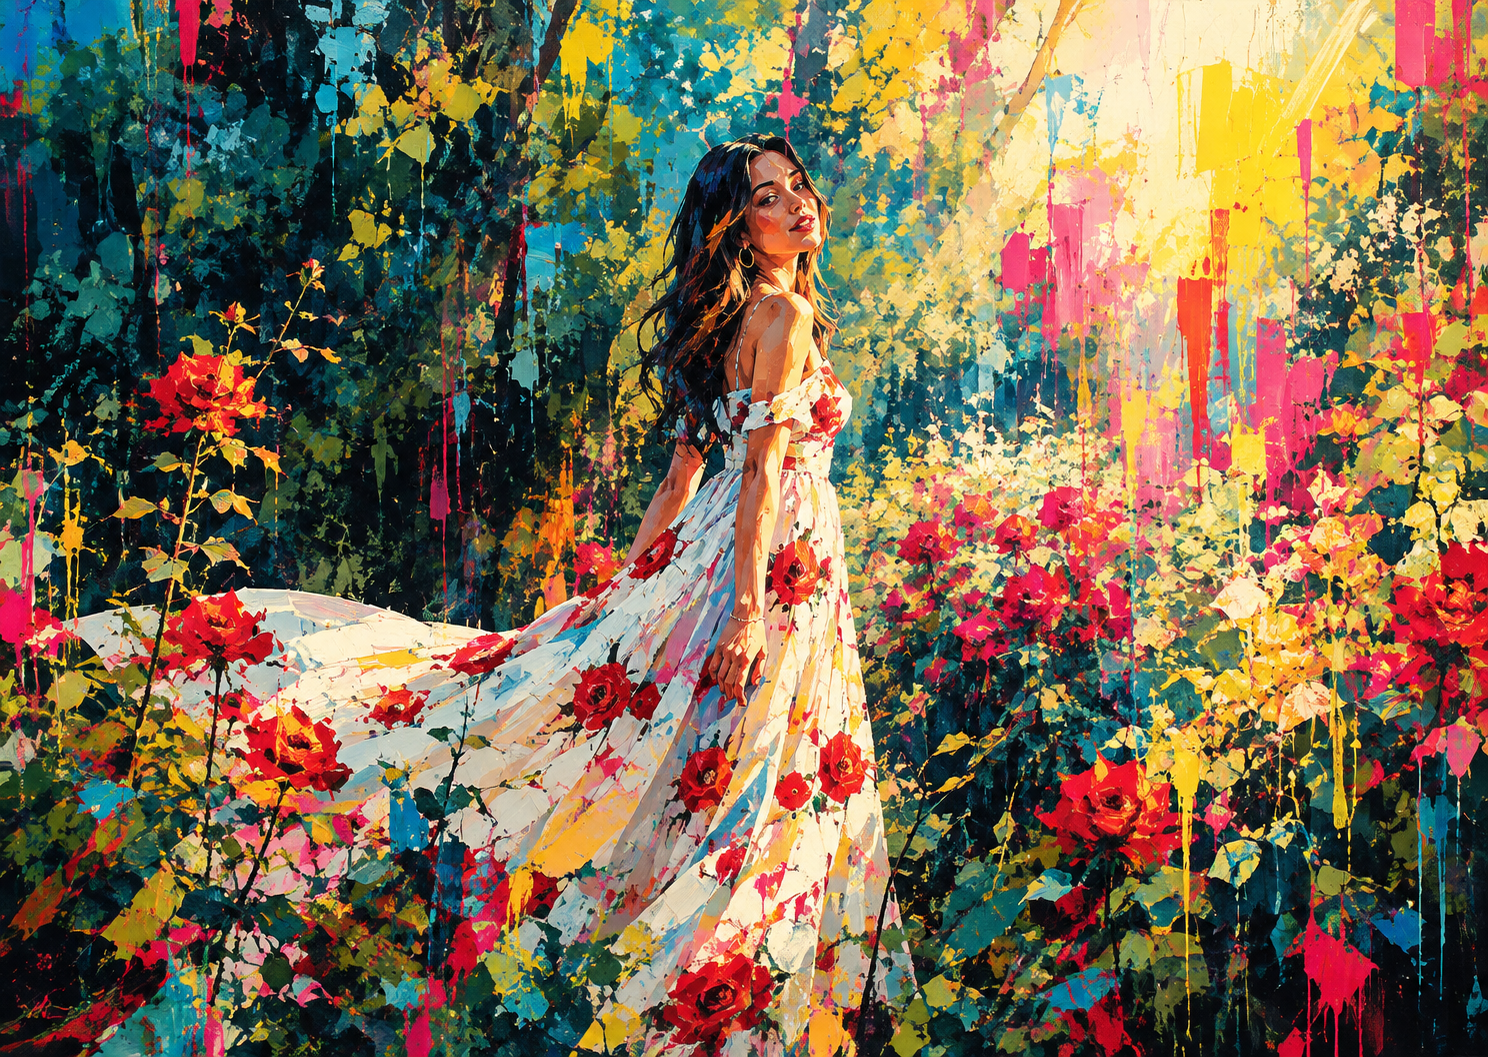
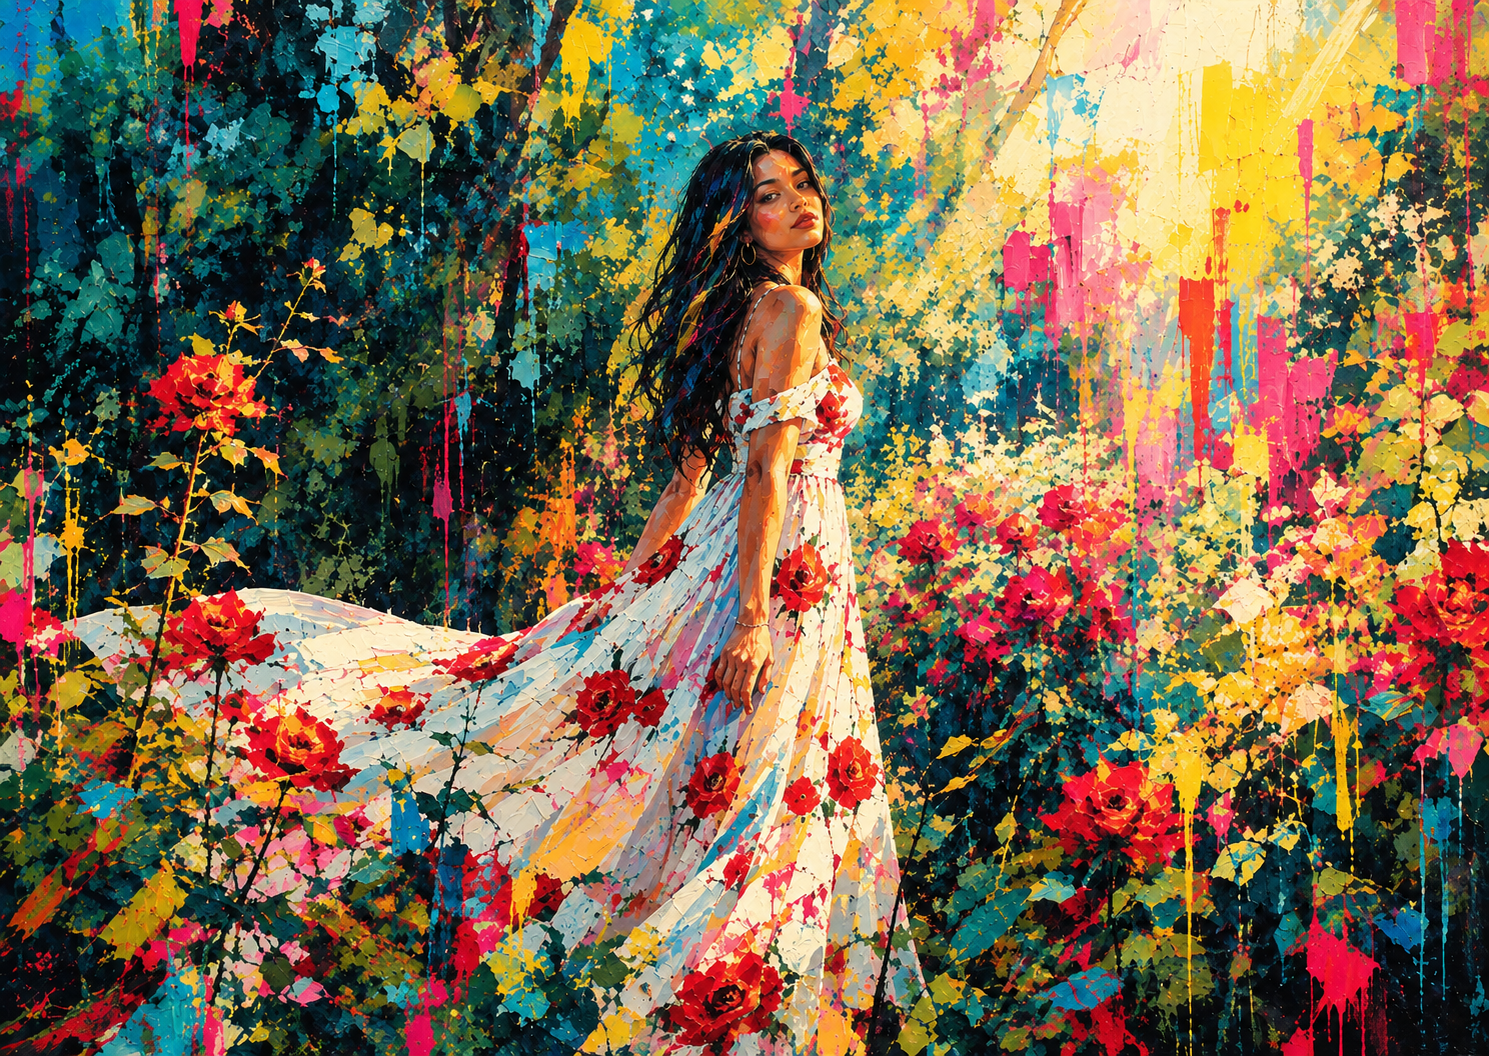
Commit Amistad y Duda

diff --git a/index.js b/index.js
@@ -4,8 +4,8 @@ const CONTENT = {
   inicioTitulo: 'Para Nani',
   inicioFrase: 'Hay historias que merecen ser recordadas con cariño.',
   inicioBoton: 'Comenzar',
-  amistadTitulo: 'Amistad',   amistadTexto: 'EDITAR: texto personal de Amistad',
-  dudaTitulo: 'Duda',         dudaTexto: 'EDITAR: texto personal de Duda',
+  amistadTitulo: 'Amistad',   amistadTexto: 'La RAE define la amistad como un afecto personal y desinteresado hacia otra persona. Pero una definición no alcanza para explicar lo que significa una amistad de verdad.\n\nAmistad también es apoyarse, como cuando me diste una mano para dirigir el grupo, aunque no te dieran el crédito que merecías. Son las risas, las bromas y todos esos buenos recuerdos que compartimos durante años. Es que bastara con verte y saludarte para que mi día mejorara un poquito.\n\nPero, si soy sincero, para mí nunca fue solamente amistad.\n\nSiempre hubo algo en ti que llamaba mi atención: esos ojos hermosos que todavía recuerdo con anhelo, tu pelo ondulado y esa sonrisa tan sincera. Supe que empezabas a significar algo más cuando me ponía nervioso cerca de ti, cuando evitaba mencionarte para disimular lo que realmente sentía.\n\nY ese sentimiento se intensificó.\n\nSe intensificó cuando Erick nos dejó solos en un cuarto. Cuando teníamos conversaciones en las que parecíamos olvidarnos del resto y la conexión entre nosotros se sentía genuina. Cuando hacíamos equipo en los deportes. Y cuando Palacios nos puso a bailar y sentí el corazón acelerarse sin saber muy bien qué hacer con todo aquello que llevaba dentro.\n\nAun así, nunca me atreví a decirte nada. Me guardé lo que sentía y dejé que nuestra historia siguiera siendo una amistad. Una amistad con una mujer a la que admiraba, que me hacía bien y que, sin saberlo, ya empezaba a ocupar un lugar diferente en mi vida.',
+  dudaTitulo: 'Duda',         dudaTexto: 'Un año después, nuestros caminos volvieron a cruzarse. Esta vez, en los pasillos de una universidad. Y aunque había pasado el tiempo, seguíamos siendo capaces de encontrarnos entre conversaciones, risas y esos planes de salir algún día que siempre terminaban quedándose en palabras.\n\nLa verdad es que nada había cambiado demasiado entre nosotros. Creo que el que había cambiado era yo, o al menos estaba aprendiendo a serlo. Porque esta vez decidí dejar de tener miedo e intentarlo.\n\nAsí que un día hice realidad aquella idea de salir juntos y te invité a comer algo. Y, mientras llegaba el día, empezamos a hablarnos más. Nos compartíamos memes, nos contábamos cómo había estado nuestro día y, poco a poco, nuestras conversaciones fueron tomando más confianza, hasta llegar a tener una complicidad que no recordaba haber tenido contigo antes.\n\nLo curioso es que yo llegué a esa primera cita lleno de dudas. Al principio, ni siquiera tenía intenciones de que pasara algo entre nosotros. Creía que aquellos sentimientos que había tenido en el colegio ya habían desaparecido. Pero bastó una semana hablando contigo para darme cuenta de que quizás nunca se habían ido del todo.\n\nY entonces llegó aquella salida.\n\nFuimos a comer a un restaurante italiano. Tú pediste una carbonara y yo una Alfredo. Hablamos durante horas, tomamos un poco y, cuando llegó el momento de llevarte a tu casa, me despedí de ti con una sensación que no me abandonó en todo el camino de vuelta: me había quedado con las ganas de besarte.\n\nNuestra segunda salida fue diferente. Recuerdo que te habías pintado las uñas el día anterior y que, en algún momento, terminé tomándote de la mano. Cuando llegamos a tu casa, volví a despedirme de ti como si aquella fuera una salida cualquiera. Pero, antes de que te bajaras del carro, algo en mí pudo más que todas las dudas que llevaba encima. Te tomé suavemente de la mandíbula y te besé.\n\nY creo que, por primera vez, dejé de preguntarme qué habría pasado si lo hubiera intentado antes.\n\nPara nuestra tercera salida fuimos a un parque. No hubo restaurante, ni una cena especial, ni siquiera un plan que necesitara dinero. Éramos tú, yo y una conversación que se extendió durante horas. Y fue ahí donde empecé a entender que no necesitaba grandes planes para disfrutar de tu compañía. Bastaba con tenerte enfrente y poder seguir hablando contigo.\n\nPero las dudas no desaparecieron con aquel beso ni con aquella conversación.\n\nPorque, para entonces, ya había empezado a darme cuenta de lo que sentía por ti, y eso me asustaba. Me di cuenta de que te amaba sin haber amado antes, de que estaba entrando en una etapa de mi vida que no conocía y para la que no sabía si estaba preparado.\n\nTenía miedo de no ser suficiente, de ser rechazado, de lo que pudieran pensar los demás. Miedo de elegir mal, de empezar algo para lo que todavía no me sentía listo, de ir demasiado rápido y, al mismo tiempo, de sentir demasiado. Tenía tantas dudas que, a veces, no sabía qué hacer con todo lo que estaba sintiendo.\n\nPero había algo que empezaba a tener claro: no quería que el miedo volviera a decidir por mí.\n\nDurante aquel año en que nuestros caminos estuvieron separados, aprendí que la vida a veces nos da segundas oportunidades. Y yo no quería desperdiciar la mía.\n\nNo sabía cómo se suponía que debía amar, ni tenía experiencia para asegurar que todo saldría bien. No tenía respuestas para todas mis dudas ni garantías de que estaba tomando la decisión correcta.\n\nPero tenía ganas de intentarlo contigo.\n\nY, para alguien que durante tanto tiempo prefirió guardar lo que sentía antes que arriesgarse a perderlo, eso ya significaba mucho.',
   popTitulo: 'Enamoramiento', popTexto: 'EDITAR: texto personal de Enamoramiento',
   nostalgiaTitulo: 'Nostalgia', nostalgiaTexto: 'EDITAR: texto personal de Nostalgia',
   cumpleTitulo: 'Feliz cumpleaños', cumpleTexto: 'EDITAR: mensaje personal de cumpleaños (deseos de felicidad, tranquilidad y oportunidades)',
@@ -37,8 +37,11 @@ const $ = (s, r = document) => r.querySelector(s);
 const reduce = matchMedia('(prefers-reduced-motion: reduce)').matches;
 
 /* Contenido */
-document.querySelectorAll('[data-t]').forEach(el => el.textContent = CONTENT[el.dataset.t] ?? '');
-$('.acrostico').innerHTML = ACROSTICO.map(([l, p]) => `<li><b aria-hidden="true">${l}</b><span>${p}</span></li>`).join('');
+document.querySelectorAll('[data-t]').forEach(el => {
+  const partes = (CONTENT[el.dataset.t] ?? '').split('\n\n');   // un párrafo real por cada \n\n
+  el.textContent = partes[0];
+  if (el.closest('.texto')) el.after(...partes.slice(1).map(x => Object.assign(document.createElement('p'), { textContent: x })));
+});$('.acrostico').innerHTML = ACROSTICO.map(([l, p]) => `<li><b aria-hidden="true">${l}</b><span>${p}</span></li>`).join('');
 
 /* Reproductor: sugiere y reproduce SOLO tras un toque de la persona (Escuchar, Lista o Continuar) */
 const Player = (() => {
@@ -69,11 +72,28 @@ const Player = (() => {
     document.head.append(s); setTimeout(no, 5000);
   });
   const plano = c => {
+    console.log('[musica] usando reproductor simple (sin control por código)');
     plain = true; embed.innerHTML = '';
     const f = document.createElement('iframe'); f.title = 'Reproductor de Spotify'; f.allow = 'autoplay; encrypted-media';
     f.src = `https://open.spotify.com/embed/track/${c.id}`; embed.append(f);
   };
   const tocar = () => { if (quiere && ctrl) { quiere = false; ctrl.play(); } };
+  // Repite la canción (o el fragmento de 30 s) cuando termina sola. Una pausa manual no la reinicia.
+  const activaBucle = C => {
+    let sonaba = false, ult = 0, ultEvento = 0;
+    const repite = () => { sonaba = false; console.log('[musica] repitiendo'); C.seek(0); C.play(); };
+    C.addListener('playback_update', e => {
+      const d = e.data || {};
+      console.log('[musica]', 'pausa:', d.isPaused, 'pos:', d.position, 'dur:', d.duration);   // diagnóstico
+      ultEvento = Date.now();
+      if (!d.isPaused) { sonaba = true; ult = d.position; return; }
+      const termino = sonaba && (d.position <= 1000 || (d.duration && ult >= d.duration - 1500));
+      sonaba = false;
+      if (termino) repite();
+    });
+    // Si la reproducción se corta sin avisar (dejan de llegar eventos mientras sonaba), también repite
+    setInterval(() => { if (sonaba && Date.now() - ultEvento > 3000) repite(); }, 1000);
+  };
   const suena = () => {
     const c = cur(), uri = `spotify:track:${c.id}`; quiere = true;
     if (plain) return plano(c);
@@ -81,7 +101,10 @@ const Player = (() => {
     cargaApi().then(API => {
       if (plain || ctrl) return;
       const host = document.createElement('div'); embed.innerHTML = ''; embed.append(host);
-      API.createController(host, { uri, width: '100%', height: 80 }, C => { ctrl = C; C.addListener('ready', tocar); });
+      API.createController(host, { uri, width: '100%', height: 80 }, C => {
+        ctrl = C; C.addListener('ready', tocar);
+        activaBucle(C);
+      });
       setTimeout(() => { if (!ctrl) plano(cur()); }, 5000);
     }).catch(() => plano(cur()));
   };

diff --git a/pixel.css b/pixel.css
@@ -16,3 +16,18 @@
   0%{box-shadow:calc(var(--p)*13) calc(var(--p)*3) #e0a070,calc(var(--p)*14) calc(var(--p)*3) #e0a070,calc(var(--p)*15) calc(var(--p)*3) #e0a070,calc(var(--p)*13) calc(var(--p)*4) #e0a070,calc(var(--p)*14) calc(var(--p)*4) #e0a070,calc(var(--p)*15) calc(var(--p)*4) #e0a070,calc(var(--p)*13) calc(var(--p)*5) #e0a070,calc(var(--p)*14) calc(var(--p)*5) #e0a070,calc(var(--p)*15) calc(var(--p)*5) #e0a070,calc(var(--p)*13) calc(var(--p)*6) #e0a070,calc(var(--p)*14) calc(var(--p)*6) #e0a070,calc(var(--p)*13) calc(var(--p)*7) #e0a070,calc(var(--p)*14) calc(var(--p)*7) #e0a070,calc(var(--p)*13) calc(var(--p)*8) #e0a070,calc(var(--p)*14) calc(var(--p)*8) #e0a070,calc(var(--p)*13) calc(var(--p)*9) #e0a070,calc(var(--p)*14) calc(var(--p)*9) #e0a070,calc(var(--p)*13) calc(var(--p)*10) #e0a070,calc(var(--p)*14) calc(var(--p)*10) #e0a070,calc(var(--p)*12) calc(var(--p)*11) #2b2b3a,calc(var(--p)*13) calc(var(--p)*11) #2b2b3a,calc(var(--p)*14) calc(var(--p)*11) #2b2b3a,calc(var(--p)*12) calc(var(--p)*12) #2b2b3a,calc(var(--p)*13) calc(var(--p)*12) #2b2b3a,calc(var(--p)*14) calc(var(--p)*12) #2b2b3a}
   50%{box-shadow:calc(var(--p)*13) calc(var(--p)*2) #e0a070,calc(var(--p)*14) calc(var(--p)*2) #e0a070,calc(var(--p)*15) calc(var(--p)*2) #e0a070,calc(var(--p)*13) calc(var(--p)*3) #e0a070,calc(var(--p)*14) calc(var(--p)*3) #e0a070,calc(var(--p)*15) calc(var(--p)*3) #e0a070,calc(var(--p)*13) calc(var(--p)*4) #e0a070,calc(var(--p)*14) calc(var(--p)*4) #e0a070,calc(var(--p)*15) calc(var(--p)*4) #e0a070,calc(var(--p)*14) calc(var(--p)*5) #e0a070,calc(var(--p)*15) calc(var(--p)*5) #e0a070,calc(var(--p)*14) calc(var(--p)*6) #e0a070,calc(var(--p)*15) calc(var(--p)*6) #e0a070,calc(var(--p)*14) calc(var(--p)*7) #e0a070,calc(var(--p)*15) calc(var(--p)*7) #e0a070,calc(var(--p)*14) calc(var(--p)*8) #e0a070,calc(var(--p)*15) calc(var(--p)*8) #e0a070,calc(var(--p)*14) calc(var(--p)*9) #e0a070,calc(var(--p)*15) calc(var(--p)*9) #e0a070,calc(var(--p)*14) calc(var(--p)*10) #e0a070,calc(var(--p)*15) calc(var(--p)*10) #e0a070,calc(var(--p)*12) calc(var(--p)*11) #2b2b3a,calc(var(--p)*13) calc(var(--p)*11) #2b2b3a,calc(var(--p)*14) calc(var(--p)*11) #2b2b3a,calc(var(--p)*12) calc(var(--p)*12) #2b2b3a,calc(var(--p)*13) calc(var(--p)*12) #2b2b3a,calc(var(--p)*14) calc(var(--p)*12) #2b2b3a}}
 @media (prefers-reduced-motion:reduce){.peek,.sprite::after{animation:none}.peek{transform:translateX(-18%)}}
+
+/* Duda: ciudad nocturna en pixel art (más luces cerca de ella, a la izquierda) */
+.s-duda{--s:12rem;--c:clamp(14rem,30vw,28rem);image-rendering:pixelated;
+  background:url("img/estrellas-pixel.png") 0 0/512px 512px,url("img/estrellas-pixel-2.png") 0 0/640px 640px,#0a1038}
+/* la ciudad va en una capa propia, sobre el suelo */
+.s-duda::before{content:"";position:absolute;left:0;right:0;bottom:var(--s);height:var(--c);background:url("img/ciudad-pixel.png") left bottom/100% auto no-repeat;
+  -webkit-mask-image:linear-gradient(transparent,#000 35%);mask-image:linear-gradient(transparent,#000 35%)}
+/* la luna, arriba a la izquierda; el texto siempre empieza debajo de ella */
+.s-duda::after{content:"";position:absolute;right:auto;top:1.2rem;left:6%;width:8rem;height:8rem;background:url("img/luna-pixel.png") center/contain no-repeat;box-shadow:none;animation:none}
+.paginas main>section.s-duda{padding-top:10.5rem;padding-bottom:calc(var(--s) + var(--c) * .65)}
+.pixel-grid{display:none}
+.s-duda .texto{background:#050a2ed9;padding:1.5rem 1.7rem;border:3px solid #26357f}
+.suelo{background:repeating-linear-gradient(90deg,#070b27 0 24px,#0b1138 24px 48px);border-top:8px solid #1f2d7a}
+@media (max-aspect-ratio:1/1){.s-duda{--c:18rem}.s-duda::before{background-size:auto 100%}}
+@media (min-width:1300px){.s-duda .texto{justify-self:end;margin-right:6%}}

diff --git a/index.css b/index.css
@@ -168,3 +168,9 @@ section:focus{outline:none}
   .s-pop .texto{grid-column:1;grid-row:1}
   .s-pop .retrato{grid-column:2;grid-row:1}
 }
+
+/* Texto largo legible: columna más ancha, párrafos separados */
+.texto{max-width:44rem}
+.s-pop .texto{max-width:44rem}
+.texto p{font-size:clamp(1rem,.35vw + .92rem,1.1rem);line-height:1.75;margin:0 0 1.15rem;color:#ece8df;max-width:none}
+.texto p:last-child{margin-bottom:0}
